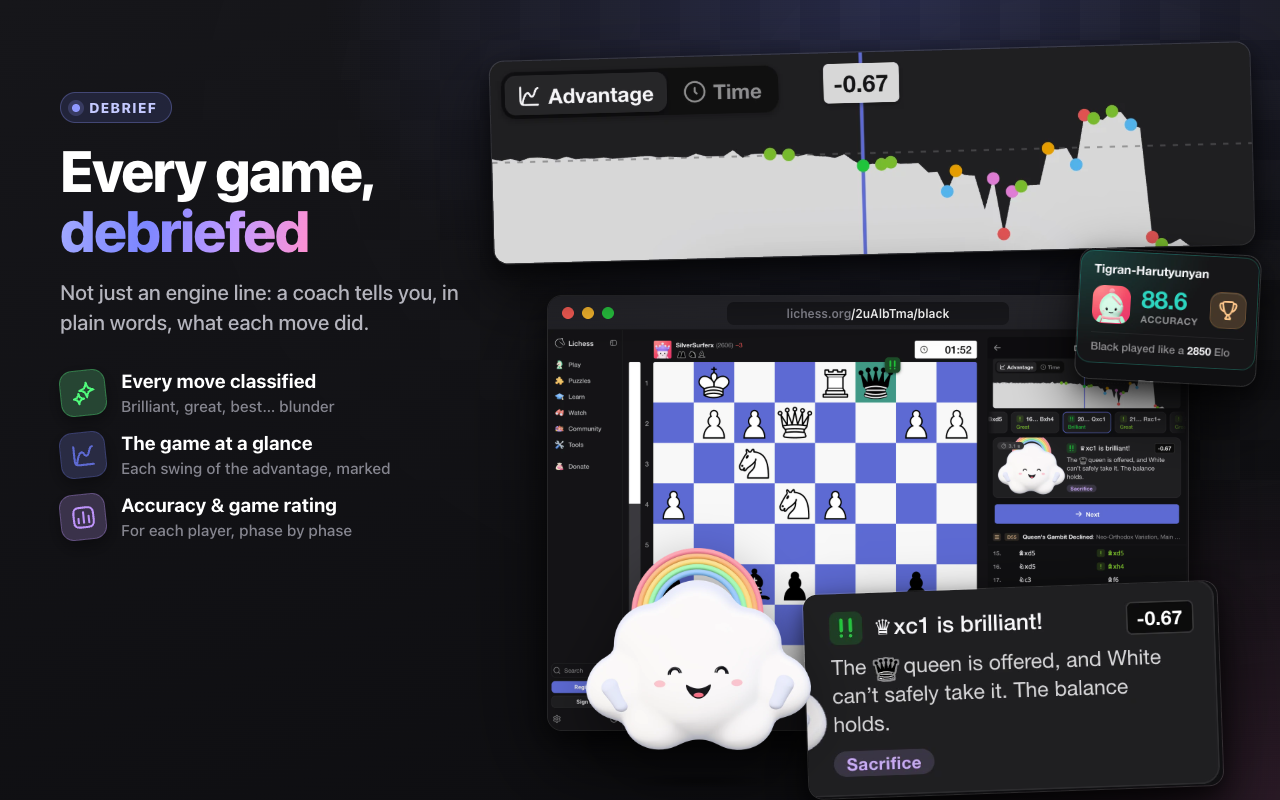
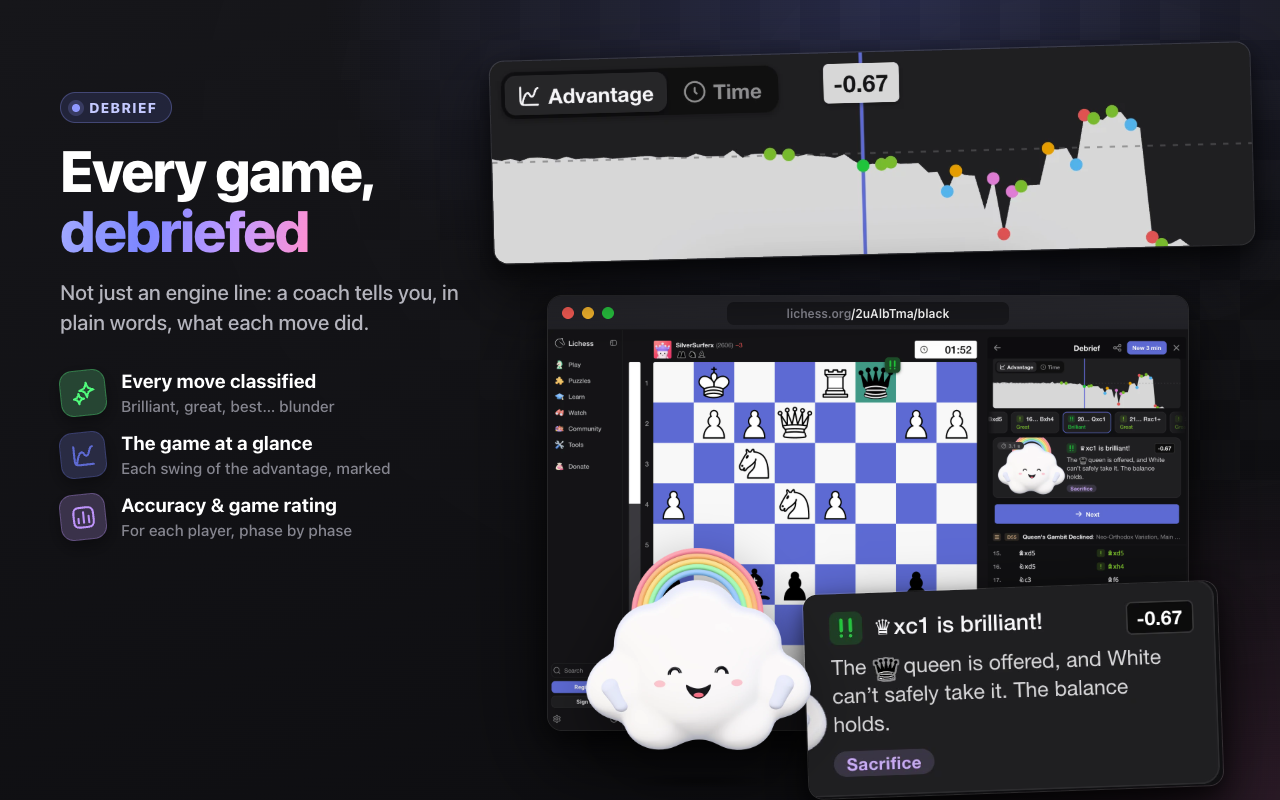
Drop the accuracy card from the Debrief store image

Changed region(s): [[0.8125, 0.2812, 1.0, 0.5312]]

diff --git a/store/templates/2-debrief.html b/store/templates/2-debrief.html
@@ -37,12 +37,6 @@
     transform: rotate(-1.5deg);
   }
 
-  .accuracy {
-    top: 252px;
-    left: 1078px;
-    width: 180px;
-    transform: rotate(3deg);
-  }
 
   .comment {
     top: 588px;
@@ -84,8 +78,6 @@
 
 <img class="card graph" lang="en" src="shots/graph-en.webp">
 <img class="card graph" lang="fr" src="shots/graph-fr.webp">
-<img class="card accuracy" lang="en" src="shots/accuracy-en.webp">
-<img class="card accuracy" lang="fr" src="shots/accuracy-fr.webp">
 <img class="card comment" lang="en" src="shots/coach-card-en.webp">
 <img class="card comment" lang="fr" src="shots/coach-card-fr.webp">
 <img class="coach cloud" src="coaches/coach-24-delight.webp">
